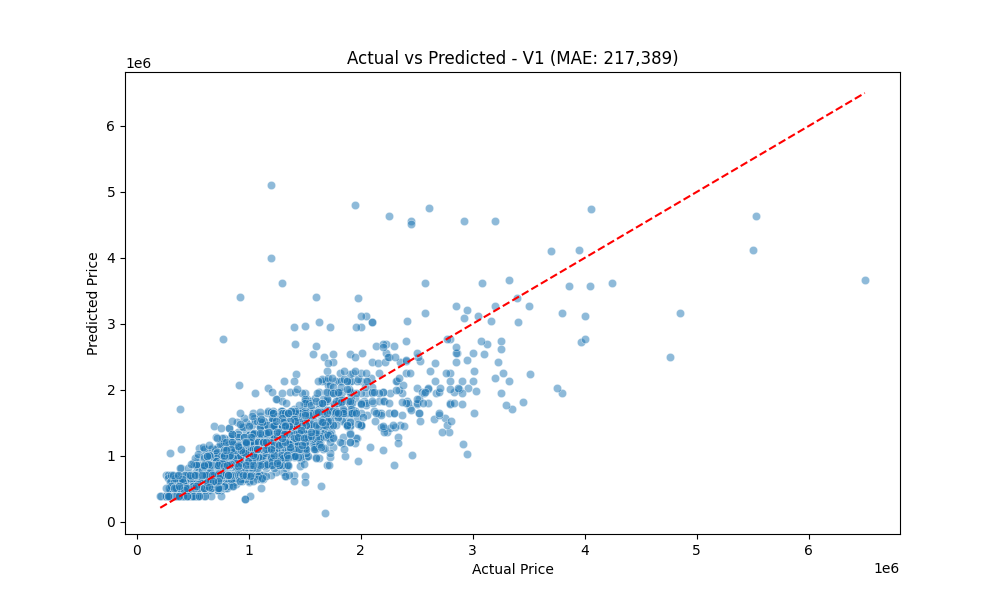
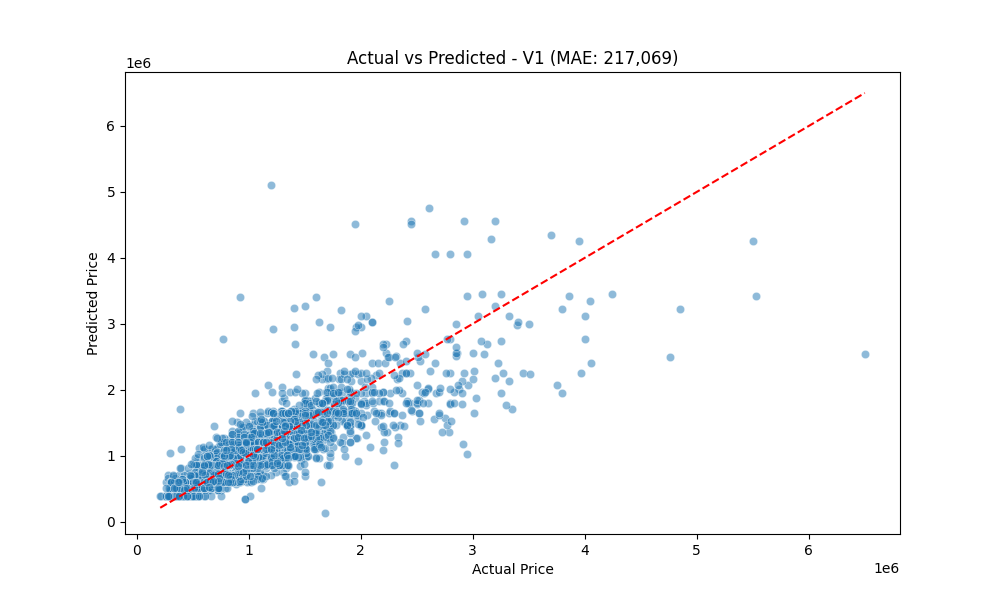
feat: add train_script.py, edit handledata.py

diff --git a/DecisionTree/DecisionTree_v0.py b/DecisionTree/DecisionTree_v0.py
@@ -7,8 +7,10 @@ if project_root not in sys.path:
 import handledata as dt
 from sklearn.tree import DecisionTreeRegressor
 import numpy as np
+from train_script import grid
+
 # Khởi tạo mô hình cây quyết định bình thường
-baseline_model = DecisionTreeRegressor(random_state=42)
+baseline_model = grid.best_estimator_
 
 # Huấn luyện mô hình trên tập dữ liệu đã tiền xử lý
 baseline_model.fit(dt.X_train, dt.y_train) 
@@ -44,10 +46,18 @@ mse = mean_squared_error(dt.y_valid, y_pred)
 rmse = np.sqrt(mse) # Tính thêm RMSE vì Lab yêu cầu 
 
 """Căn bậc hai của MSE"""
-r2 = r2_score(dt.y_valid, y_pred)
-"""Đo mức độ mô hình giải thích được bao nhiêu variance của data"""
+# 1. R2 Test: Khả năng dự báo trên dữ liệu mới (y_pred đã có ở trên)
+r2_test = r2_score(dt.y_valid, y_pred)
+
+# 2. R2 Train: Khả năng học trên dữ liệu cũ
+# model.score tự động dùng X_train để dự đoán rồi so sánh với y_train
+r2_train = baseline_model.score(dt.X_train, dt.y_train)
+
+# 3. Overfitting Gap: Độ lệch giữa học và hành
+gap = r2_train - r2_test
+
 from log import log_results
-log_results("Model Base", mae, mse, rmse, r2)
+log_results("Model V0 - Baseline", mae, mse, rmse, r2_train, r2_test, gap)
 
 plt.figure(figsize=(10, 6))
 

diff --git a/DecisionTree/DecisionTree_v2.py b/DecisionTree/DecisionTree_v2.py
@@ -25,7 +25,12 @@ selected_features = [dt.X.columns[i] for i in indices]
 # 2. Huấn luyện mô hình cải tiến với max_depth=5
 X_train_fs = dt.X_train[selected_features]
 X_valid_fs = dt.X_valid[selected_features]
-model_v2 = DecisionTreeRegressor(random_state=42, max_depth=5) # Huấn luyện độ sâu 5
+
+from train_script import grid
+
+# Khởi tạo mô hình cây quyết định bình thường
+model_v2 = grid.best_estimator_
+
 model_v2.fit(X_train_fs, dt.y_train)
 
 # 3. Vẽ cấu trúc cây (Chỉ hiển thị max_depth=3 để hình rõ nét)
@@ -50,7 +55,7 @@ y_train_fix = dt.X_train_y if hasattr(dt, 'X_train_y') else dt.y_train
 r2_train = model_v2.score(X_train_fs, y_train_fix)
 
 gap = r2_train - r2_test
-log_results("Model V2 - Feature Selection (Depth 5)", mae, mse, rmse, r2_train, r2_test, gap)
+log_results("Model V2 - Feature Selection", mae, mse, rmse, r2_train, r2_test, gap)
 
 # 5. Vẽ biểu đồ Compare (Scatter)
 plt.figure(figsize=(10, 6))

diff --git a/DecisionTree/DecisionTree_v3.py b/DecisionTree/DecisionTree_v3.py
@@ -27,7 +27,11 @@ y = df['Price']
 X_train, X_valid, y_train, y_valid = train_test_split(X, y, test_size=0.2, random_state=42)
 
 # 2. Huấn luyện với max_depth=5 để tăng độ chính xác
-model_v3 = DecisionTreeRegressor(random_state=42, max_depth=5)
+from train_script import grid
+
+# Khởi tạo mô hình cây quyết định bình thường
+model_v3 = grid.best_estimator_
+
 model_v3.fit(X_train, y_train)
 
 # 3. Vẽ cấu trúc cây (Chỉ hiển thị đến tầng thứ 3 để hình đẹp trong báo cáo)
@@ -50,7 +54,7 @@ rmse = np.sqrt(mse)
 r2_test = r2_score(y_valid, y_pred)
 r2_train = model_v3.score(X_train, y_train)
 gap = r2_train - r2_test
-log_results("Model V3 - Missing Values (Depth 5)", mae, mse, rmse, r2_train, r2_test, gap)
+log_results("Model V3 - Missing Values", mae, mse, rmse, r2_train, r2_test, gap)
 
 # 5. Vẽ biểu đồ Compare Actual vs Predicted
 plt.figure(figsize=(10, 6))

diff --git a/handledata.py b/handledata.py
@@ -8,15 +8,17 @@ df = pd.read_csv('./data/data_set.csv')
 features_to_drop = ['Address', 'SellerG', 'Date', 'Postcode']
 df = df.drop(columns=features_to_drop)
 
-# 3. Điền giá trị thiếu (Ví dụ cho BuildingArea)
-df['BuildingArea'] = df['BuildingArea'].fillna(df['BuildingArea'].median())
+# 3. Điền giá trị thiếu -> thay tất cả bằng 0
+df = df.fillna(0)
 
 # 4. Mã hóa (Encoding)
 df = pd.get_dummies(df, columns=['Type', 'Method', 'Regionname'])
 
-# 5. Tách X (features) và y (target là Price)
+# 5. Tách X và y
 X = df.drop(columns=['Price', 'Suburb', 'CouncilArea']) 
 y = df['Price']
 
 # 6. Chia tập dữ liệu 
-X_train, X_valid, y_train, y_valid = train_test_split(X, y, test_size=0.2, random_state=42)
+X_train, X_valid, y_train, y_valid = train_test_split(
+    X, y, test_size=0.2, random_state=42
+)

diff --git a/DecisionTree/DecisionTree_v1.py b/DecisionTree/DecisionTree_v1.py
@@ -55,7 +55,7 @@ r2_train = improved_model.score(dt.X_train, y_train_fix)
 gap = r2_train - r2_test
 
 # Log kết quả vào file chung để so sánh với V0
-log_results(f"Model V1 (Max Leaf Nodes {best_tree_size})", mae, mse, rmse, r2_train, r2_test, gap)
+log_results(f"Model V1 - Max Leaf Nodes {best_tree_size}", mae, mse, rmse, r2_train, r2_test, gap)
 
 # Lưu hình ảnh vào thư mục V1
 # Vẽ cấu trúc cây

diff --git a/train_script.py b/train_script.py
@@ -1,0 +1,16 @@
+from sklearn.model_selection import GridSearchCV
+from sklearn.tree import DecisionTreeRegressor
+import handledata as dt
+param_grid = {
+    'max_depth': [3, 5, 7, 10],
+    'min_samples_leaf': [1, 5, 10]
+}
+
+grid = GridSearchCV(
+    DecisionTreeRegressor(random_state=42),
+    param_grid,
+    cv=3,
+    scoring='neg_root_mean_squared_error'
+)
+
+grid.fit(dt.X_train, dt.y_train)
